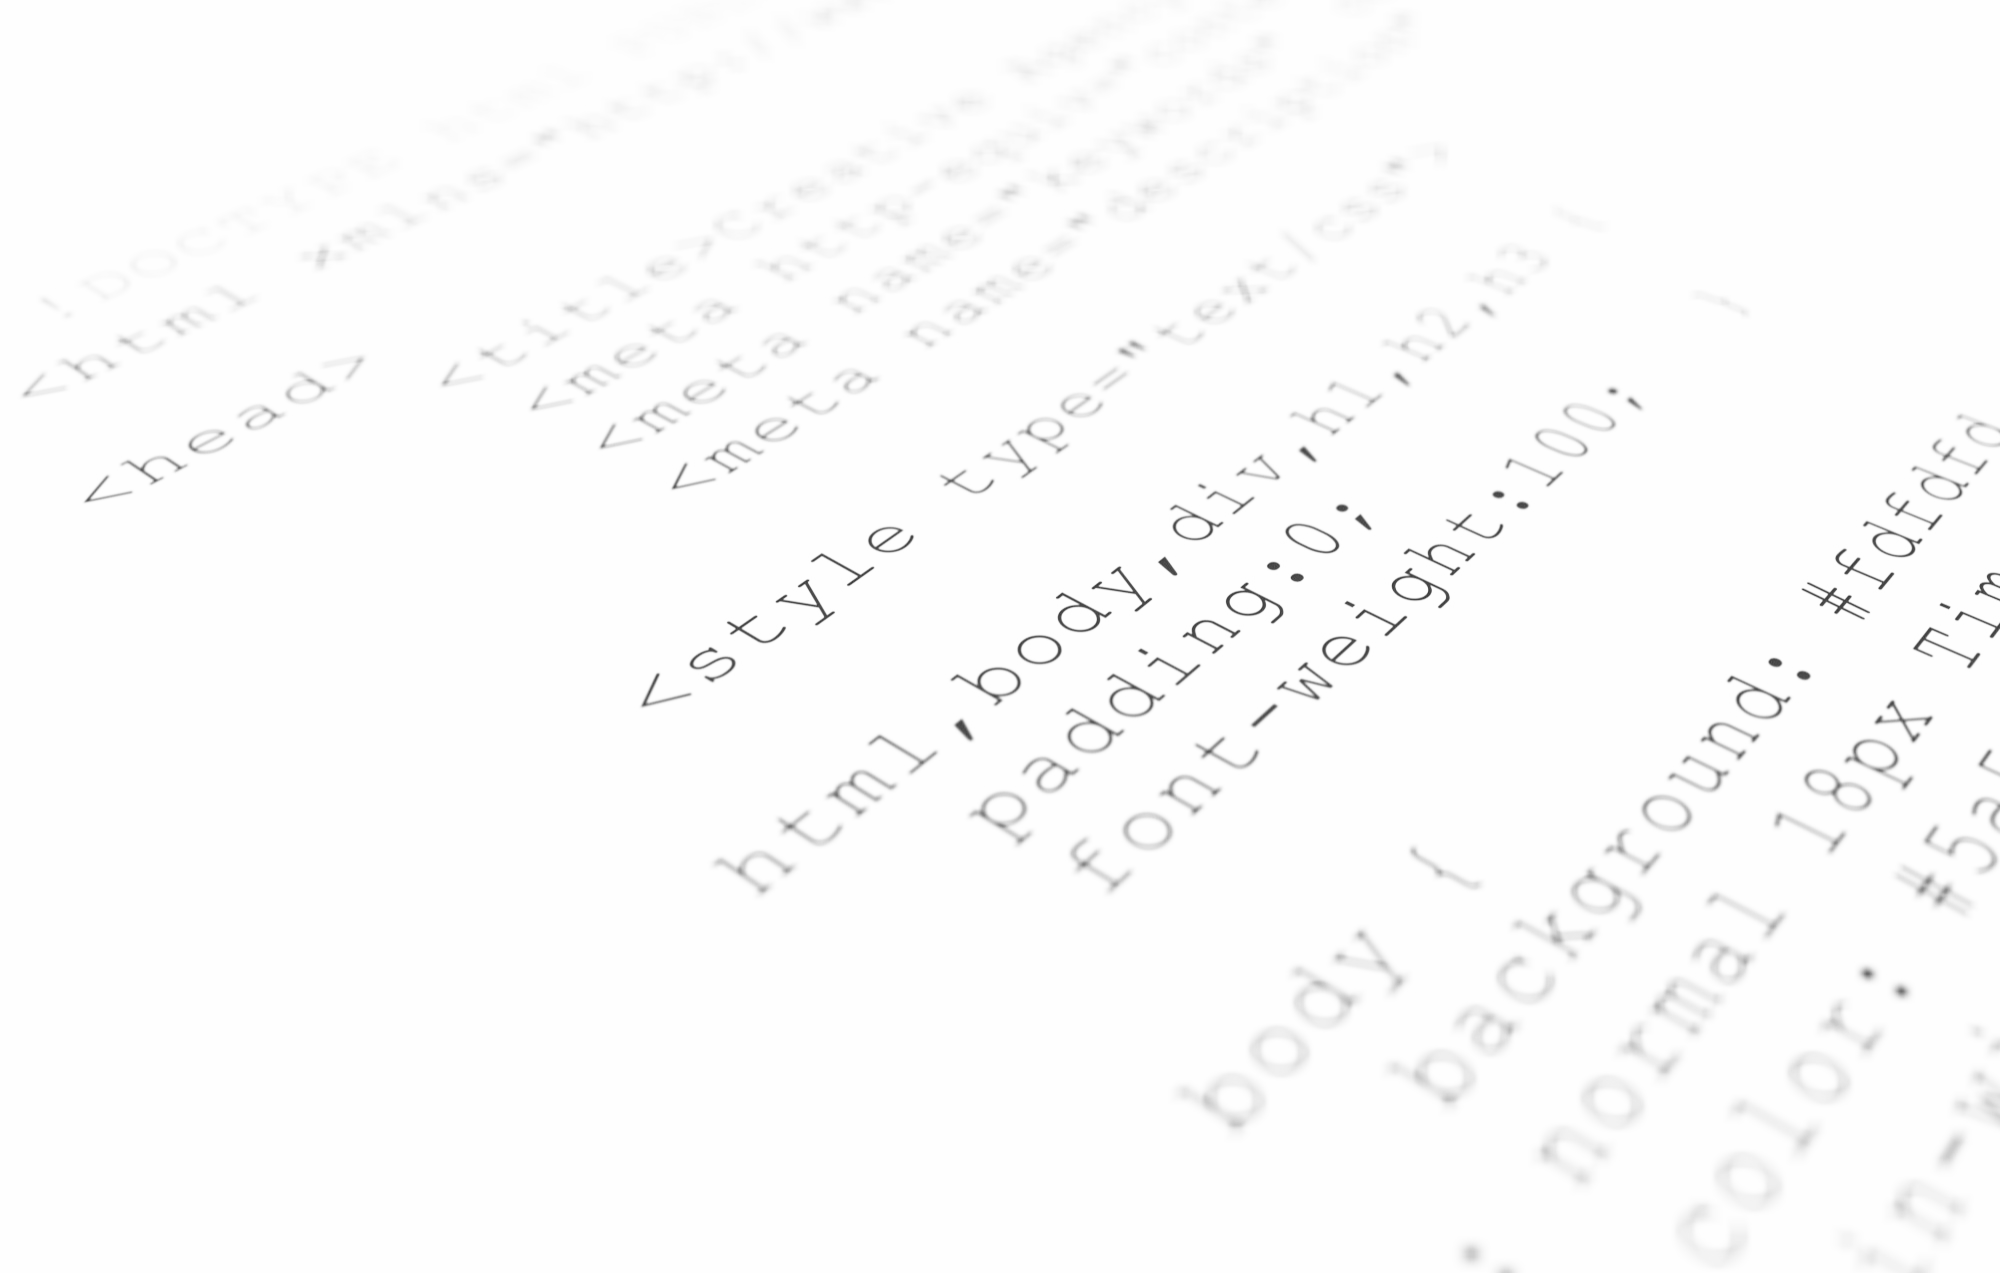
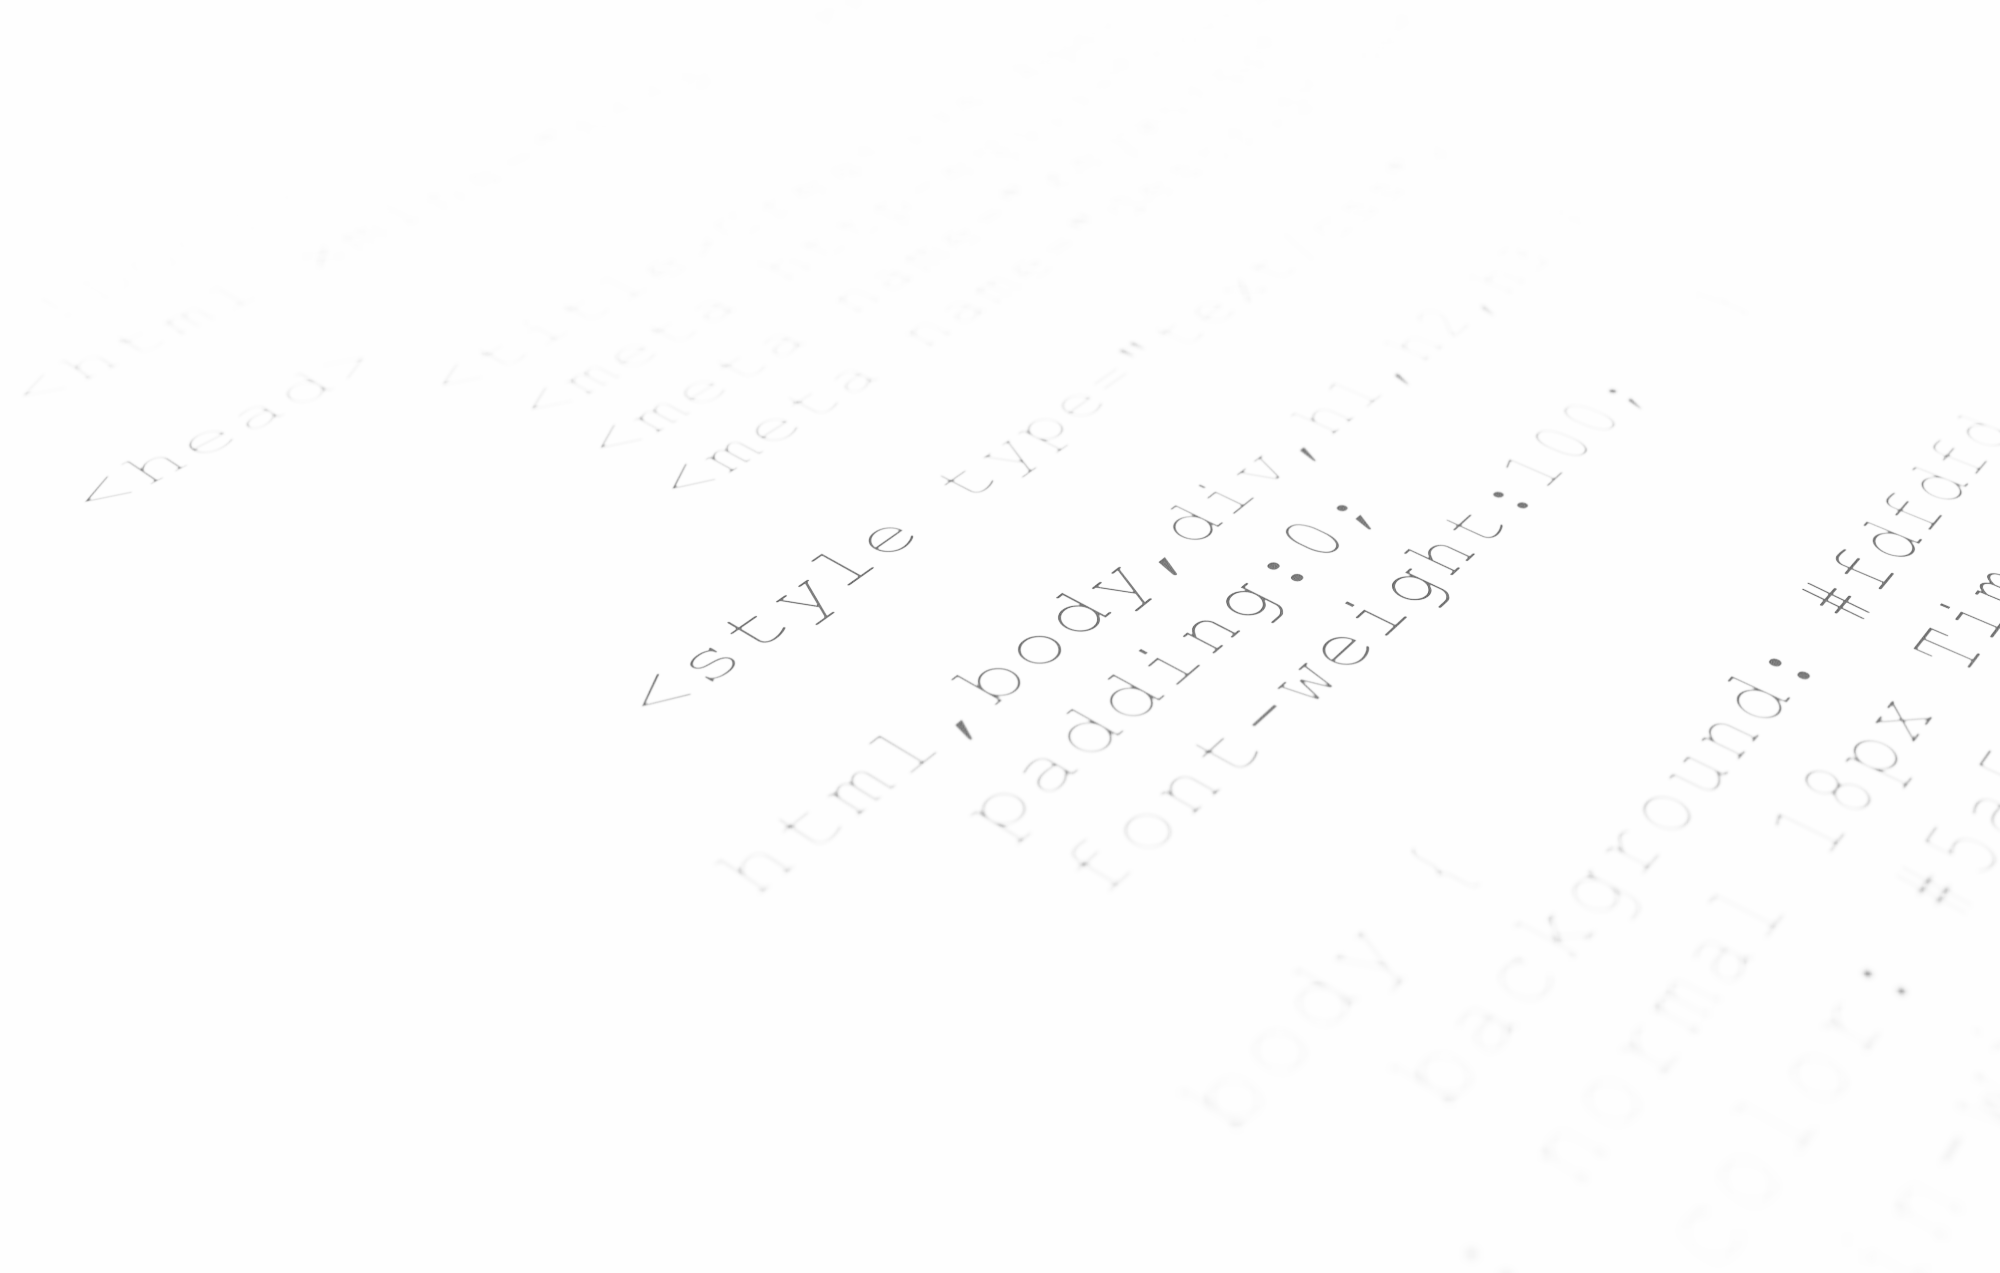
more brightness background image, improved description text

diff --git a/index.html b/index.html
@@ -7,7 +7,15 @@
   </head>
   <body>
     <h1>Rastislav Jančuš { Full-stack Web Developer }</h1>
-    <div class="description">Here are some examples of my work (web site is still under construction ...)</div>
+    <div class="description">
+      Here are some examples of my work. 
+      <br/>Websites was fully programmed and styled by me, exactly by delivered design.
+      <br/>Every UI showed on images was realized and fully functional.
+    </div>
+    <div class="description-note">
+      (My personal web site is still under construction ...)
+    </div>
+    </div>
     <div class="content">
       <div class="gallery-element">
         <div class="gallery-title">Flystork [Full-stack web developer] [07/2018 - 06/2024]</div>
@@ -84,7 +92,7 @@
         <a href="https://shop.menscrisis.com/" class="project-link" target="_blank">[Project is availabe online]</a>
       </div>
       <div class="gallery-element">
-        <div class="gallery-title">WebSafetica [Front-end web developer] [03/2015 - 08/2017]</div>
+        <div class="gallery-title">WebSafetica V2 [Front-end web developer] [03/2015 - 08/2017]</div>
         <div id="safetica-gallery" class="pswp-gallery pswp-gallery--single-column">
           <a href="images/safetica/01.png" 
             data-pswp-width="3840" 
@@ -125,7 +133,7 @@
         </div>
       </div>
       <div class="gallery-element">
-        <div class="gallery-title">WebSafetica [Front-end web developer] [03/2015 - 08/2017]</div>
+        <div class="gallery-title">WebSafetica V1 [Front-end web developer] [03/2015 - 08/2017]</div>
         <div id="safetica-old-gallery" class="pswp-gallery pswp-gallery--single-column">
           <a href="images/safetica-old/01.png" 
             data-pswp-width="2560" 

diff --git a/css/styles.css b/css/styles.css
@@ -18,9 +18,19 @@ body {
   background-size: 100% 100%;
 }
 
-body h1,
+body h1 {
+  text-align: center;
+}
+
 .description {
   text-align: center;
+  font-size: 20px;
+}
+
+.description-note {
+  text-align: center;
+  font-size: 16px;
+  padding: 12px 0 0;
 }
 
 .content {
